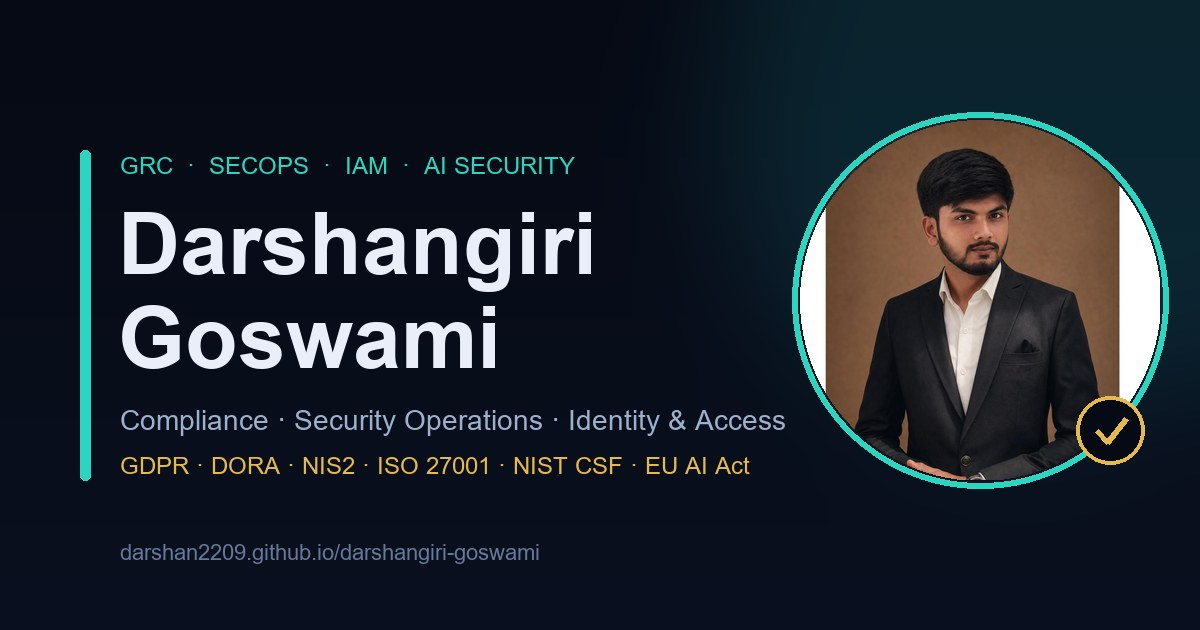
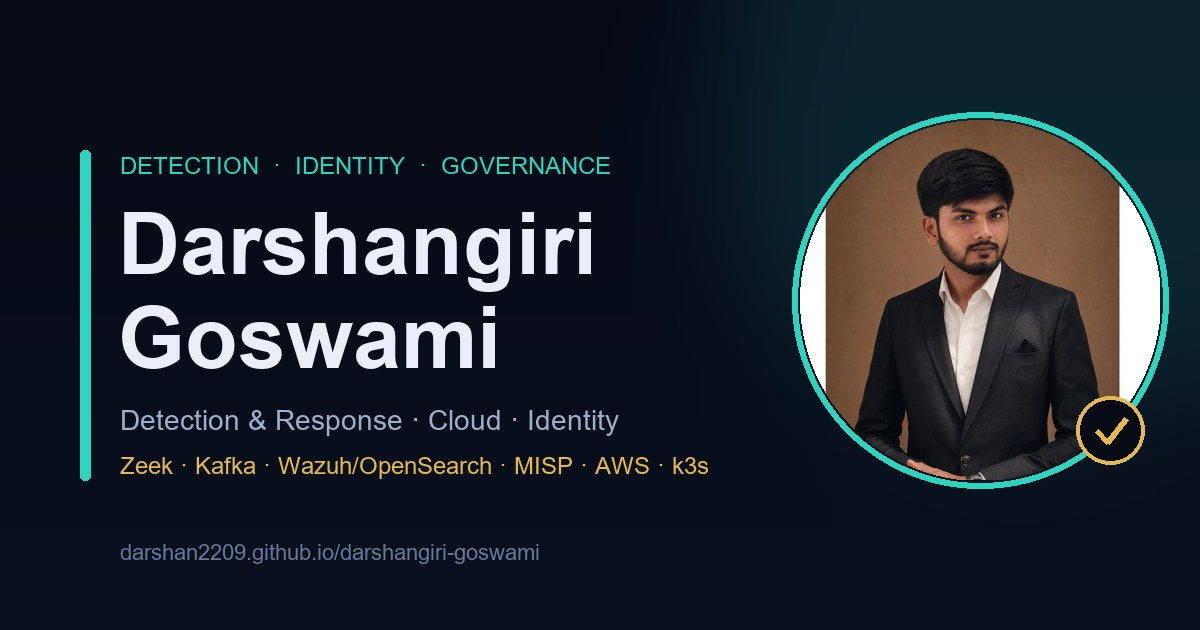
Sync CV, terminal, manifest, OG card and README to the new positioning
Follow-up to 74218df, which repositioned the page but left everything
around it still describing the old GRC-first track.

- Darshangiri-Goswami-CV.pdf rebuilt from the updated master resume. The
  old file opened with "seeking a first full-time role in GRC, IAM or
  compliance", listed SC-300 as in progress and had no SC-200, no labs and
  no speaking, so the hero's own Download CV button handed a recruiter a
  document contradicting the page three ways
- Terminal: about, skills and certs rewritten; new labs and research
  commands, projects aliases to labs, help lists the research section
- site.webmanifest name and description no longer say Compliance ·
  Monitoring · Responsible AI
- OG card regenerated: eyebrow, role line and a stack line naming Zeek,
  Kafka, Wazuh/OpenSearch, MISP, AWS and k3s. Both text lines checked
  against the portrait circle so neither runs under the photo
- generate_assets.py falls back to the committed portraits when the
  Downloads source photos are absent, which is what silently dropped the
  portrait from the first regenerated card
- README: corrected the CDN claim (Three.js is vendored), the model name
  (haiku-4-5, not opus-4-8) and the backend URL; documented the file tree,
  the CV-from-master build path and the cron-job.org keep-alive

Changed region(s): [[0.0925, 0.6333, 0.6475, 0.6937], [0.0925, 0.2413, 0.5242, 0.3016], [0.0925, 0.7238, 0.6475, 0.754]]

diff --git a/index.html b/index.html
@@ -2759,15 +2759,17 @@ function speakReply(text){
   const CMDS = {
     help(){ print(
       '<span class="t-ok">Available commands</span>\n' +
-      '  about · skills · certs · projects · experience · contact · linkedin · github · cv\n' +
-      '  open &lt;section&gt;   jump to a section (about/skills/projects/writing/ops/fit/contact)\n' +
+      '  about · skills · certs · labs · research · experience · contact · linkedin · github · cv\n' +
+      '  open &lt;section&gt;   jump to a section (about/skills/research/projects/lab/writing/ops/fit/contact)\n' +
       '  nmap · sudo hire darshan · hack     for the curious\n' +
       '  ls · cat · decode &lt;base64&gt; · submit &lt;flag&gt;     <span class="t-dim">// recon tools</span>\n' +
       '  clear · exit'); },
-    about(){ print('MSc Business Management & Cybersecurity (GISMA, Berlin). GRC · SecOps · IAM · AI security.\nTrained 4500+ people (95% certified). Builds AI-driven monitoring and access-governance workflows.'); },
-    skills(){ print('<span class="t-ok">[GRC]</span> ISO 27001/ISMS · NIST CSF · GDPR · DORA · NIS2 · EU AI Act\n<span class="t-ok">[SecOps]</span> SOC-style triage · Wazuh SIEM · FIM · case documentation\n<span class="t-ok">[IAM]</span> Entra ID · RBAC · least privilege · JML · conditional access\n<span class="t-ok">[Auto]</span> Python · PowerShell · AI alert triage · anomaly detection'); },
-    certs(){ print('SC-900 ✔ · ISO 27001 Associate ✔ · Google Cybersecurity ✔ · Cisco CyberOps ✔ · CTIGA ✔\nSC-300 ⏳ · Security+ SY0-701 ⏳   <span class="t-dim">(verify: credly.com/users/darshan-goswami.e4c6c92c)</span>'); },
-    projects(){ print('1. AI-Assisted Monitoring, Python anomaly detection + AI triage/risk-scoring via API\n2. Wazuh SIEM Homelab, Ubuntu manager + Windows agent, FIM caught 100+ unauthorised changes'); },
+    about(){ print('B.Tech Information Technology · MSc Business Management & Cyber Security (GISMA, Sep 2026).\nDetection & response · Linux/cloud security · IAM · GRC. Builds the detection, then proves it is accountable.\nTrained 4500+ people (95% certified). Speaking at KuppingerCole NHI Impact Day, Munich, 14 Oct 2026.'); },
+    skills(){ print('<span class="t-ok">[Detect]</span> Zeek · Apache Kafka · Wazuh/OpenSearch · MISP · rule authoring & tuning · FIM · triage\n<span class="t-ok">[Linux]</span> Ubuntu/Debian admin · CIS hardening · auditd · Bash · systemd · VLANs/DMZ/SPAN\n<span class="t-ok">[Cloud]</span> AWS IAM/CloudTrail/GuardDuty/S3 · GCP · Oracle · Entra ID · k3s RBAC/NetPol/PSS\n<span class="t-ok">[IAM]</span> access reviews · RBAC · least privilege · JML · NHI governance · RFC 8693\n<span class="t-ok">[GRC]</span> ISO 27001/ISMS · NIST CSF · GDPR · DORA · NIS2 · MITRE ATT&CK · EU AI Act\n<span class="t-ok">[Auto]</span> Python · Bash · PowerShell · AI alert triage · Bandit · pip-audit'); },
+    certs(){ print('SC-200 ✔ · Cisco CyberOps ✔ · SC-300 ✔ · Google Cybersecurity ✔ · CTIGA ✔\nTryHackMe Sec1 ✔ · ISO 27001 Associate ✔ · SC-900 ✔ · Security+ SY0-701 ⏳\n<span class="t-dim">(verify: credly.com/users/darshan-goswami.e4c6c92c)</span>'); },
+    labs(){ print('1. Detection Engineering, Zeek → Kafka → Wazuh/OpenSearch + MISP, 12 rules authored & tuned\n2. Linux Hardening, CIS baseline via idempotent Bash script, auditd piped into the detection stack\n3. Multi-Cloud Posture, AWS misconfigured on purpose then remediated; repeated on GCP + Oracle\n4. Kubernetes, k3s with RBAC, network policies and pod security standards, audit-log reconstruction\n5. Network Segmentation & Secure Tooling, VLANs/DMZ/SPAN + Bandit and pip-audit on the tooling\n6. AI-Assisted Monitoring, Python anomaly detection + AI triage/risk-scoring via API, human-in-the-loop'); },
+    projects(){ CMDS.labs(); },
+    research(){ print('<span class="t-ok">KuppingerCole NHI Impact Day</span> · Munich · 14 Oct 2026 · selected speaker\nGap analysis of non-human identity governance across SOC 2, NIST CSF 2.0, ISO 27001:2022,\nNIST SP 800-53 R5 and DORA. All five govern machine credentials. None covers one machine\ndelegating to another, which is exactly what an AI agent does.\nProof of concept: RFC 8693 bounded delegation, which breaks the attack chain.\n<span class="t-dim">MSc thesis behind it: 98 pages, 15 figures, UNC6395 mapped to MITRE ATT&CK.</span>'); },
     experience(){ print('2025      Cybersecurity Trainer @ NIIT Foundation (4500+ trained, 95% certified\n2023-24   Cybersecurity Research Analyst @ The CyberDiplomat) 50+ platforms monitored\n2023      Cybersecurity Research Intern @ The CyberDiplomat, crypto threat research, +30% TI quality'); },
     contact(){ print('email: <span class="t-ok">darshangoswami22922@gmail.com</span>\nphone: +49 155 1083 7720\nlocation: Berlin (open to relocation) · full-time from Oct 2026'); },
     linkedin(){ window.open('https://linkedin.com/in/darshangiri-goswami-033283213','_blank'); print('opening LinkedIn…','t-dim'); },

diff --git a/generate_assets.py b/generate_assets.py
@@ -10,8 +10,17 @@ from PIL import Image, ImageDraw, ImageFont, ImageFilter, ImageChops, ImageOps
 
 HERE = pathlib.Path(__file__).parent
 ASSETS = HERE / "assets"; ASSETS.mkdir(exist_ok=True)
+# Original imports from Downloads. Those files are gone from this machine, so each
+# falls back to the committed asset it originally produced — enough to regenerate
+# the OG card (which only needs a circle crop) without the source photos on hand.
+# Re-point these at the originals before regenerating the hero/about portraits,
+# since a fallback rebuild would resample an already-compressed JPEG.
 SRC = pathlib.Path(r"C:\Users\Lenovo\Downloads\Untitled design.jpg")  # hero: black-suit studio portrait
 ABOUT_SRC = pathlib.Path(r"C:\Users\Lenovo\Downloads\Headshot.png")   # about: navy-suit headshot
+if not SRC.exists():
+    SRC = HERE / "assets" / "portrait.jpg"
+if not ABOUT_SRC.exists():
+    ABOUT_SRC = HERE / "assets" / "about.jpg"
 
 TEAL = (45, 212, 191); GOLD = (230, 185, 79); BG = (6, 10, 20); TEXT = (233, 238, 248); MUTED = (158, 176, 203)
 
@@ -105,14 +114,17 @@ def make_og():
     d.rounded_rectangle((80, 150, 90, 480), radius=5, fill=TEAL)
 
     # eyebrow
-    d.text((120, 152), "GRC  ·  SECOPS  ·  IAM  ·  AI SECURITY", font=font(False, 24), fill=TEAL)
+    d.text((120, 152), "DETECTION  ·  IDENTITY  ·  GOVERNANCE", font=font(False, 24), fill=TEAL)
     # name (two lines)
     d.text((118, 196), "Darshangiri", font=font(True, 86), fill=TEXT)
     d.text((118, 290), "Goswami", font=font(True, 86), fill=TEXT)
     # role
-    d.text((120, 404), "Compliance · Security Operations · Identity & Access", font=font(False, 28), fill=MUTED)
-    # frameworks
-    d.text((120, 452), "GDPR · DORA · NIS2 · ISO 27001 · NIST CSF · EU AI Act", font=font(False, 24), fill=GOLD)
+    # Both lines must clear the portrait circle, whose left edge sits at x=800.
+    # At 28pt roughly 47 characters fit, at 24pt roughly 52. Longer strings run
+    # under the photo instead of wrapping, so check the render after editing.
+    d.text((120, 404), "Detection & Response · Cloud · Identity", font=font(False, 28), fill=MUTED)
+    # stack — named tools read as evidence where framework acronyms read as reading
+    d.text((120, 452), "Zeek · Kafka · Wazuh/OpenSearch · MISP · AWS · k3s", font=font(False, 24), fill=GOLD)
     # url
     d.text((120, 540), "darshan2209.github.io/darshangiri-goswami", font=font(False, 22), fill=(103, 120, 154))
 

diff --git a/README.md b/README.md
@@ -1,31 +1,34 @@
 # Darshangiri Goswami — 3D Cybersecurity Portfolio
 
-An ultra-realistic 3D portfolio built with **Three.js** (WebGL + bloom) and an
-**"Ask my AI twin"** chat assistant that can run on the **Claude API**. Theme:
-professional *compliance & trust* — deep navy, teal + gold, an animated 3D data-shield,
-an orbiting monitoring-network graph, and a particle field.
+A single-file 3D portfolio built with **Three.js** (WebGL + bloom) and an
+**"Ask my AI twin"** chat assistant running on the **Claude API**. Deep navy, teal +
+gold, an animated 3D data-shield, an orbiting monitoring-network graph and a particle
+field. The content leads with **detection engineering** — the labs, the research, the
+stack — and carries governance, identity and compliance as the second half.
 
 ## Files
 
 | File | What it is |
 |------|------------|
-| `index.html` | **The website** — edit this directly. References external assets (no base64). |
-| `assets/portrait.jpg` · `assets/portrait.webp` | Shared portrait used by hero + about (one download, served twice). |
+| `index.html` | **The website** — everything lives here: markup, CSS, JS, the German translation map, the terminal easter egg and the access-review simulator. Edit directly. |
+| `assets/portrait.*` · `about.*` · `portrait-cyber.webp` | Hero portrait, About headshot, hologram twin. |
 | `assets/og-image.jpg` | 1200×630 social-share card. |
-| `assets/favicon.svg` | SVG favicon (the shield mark). |
-| `site.webmanifest` | PWA manifest. |
-| `.well-known/security.txt` | Security contact (RFC 9116). |
-| `generate_assets.py` | Regenerates `portrait.*` and `og-image.jpg` from the source photo. |
-| `ai_twin_server.py` | Claude backend that powers live chat (keeps the API key server-side). |
-| `Procfile` · `render.yaml` | Deploy config for hosting the backend (Render/Railway/Heroku-style). |
-| `requirements.txt` | Python deps for the backend / asset generator. |
-| `Darshangiri-Goswami-CV.pdf` | Linked by the "Download CV" buttons. |
+| `assets/writing.json` · `ops.json` | Written by the LinkedIn agent; feed the Writing cards and the Live Ops room. |
+| `artifacts/` | Three illustrative GRC work samples (risk register, access-review procedure, ISO 27001 SoA excerpt). Fictional company, robots-noindexed. |
+| `fonts/` · `vendor/three/` | Self-hosted fonts and a vendored Three.js. No third-party requests at page load except GoatCounter. |
+| `datenschutz.html` · `kolophon.html` | DSGVO Art. 13 privacy notice and the colophon (sub-processor register, AI-system inventory, open items). |
+| `404.html` | RBAC-flavoured "access denied" page with a redirect. |
+| `site.webmanifest` · `sitemap.xml` · `robots.txt` · `.well-known/security.txt` | PWA manifest, SEO, security contact (RFC 9116). |
+| `generate_assets.py` | Regenerates `portrait.*`, `about.*` and `og-image.jpg`. |
+| `ai_twin_server.py` | Claude backend for the chat and the JD fit-check (keeps the API key server-side). |
+| `Procfile` · `render.yaml` · `requirements.txt` | Backend deploy config and Python deps. |
+| `Darshangiri-Goswami-CV.pdf` | Linked by the "Download CV" buttons. Built from `resume-agent/base/resume.yaml` — regenerate there, then copy it here, so the CV and the site never drift apart. |
 
 ## View the site
 
-Open `index.html` in a browser (Three.js loads from a CDN, so the first load needs
-internet). The AI twin works in **offline mode** out of the box — answers come from a
-built-in summary of the CV, with no network calls and no API key.
+Open `index.html` in a browser. Fonts and Three.js are served from this repo, so it
+renders fully offline. The AI twin also has an **offline mode** — if the backend is
+unreachable, answers come from a built-in CV summary with no network calls and no key.
 
 ## Regenerate the images
 
@@ -33,7 +36,21 @@ built-in summary of the CV, with no network calls and no API key.
 pip install -r requirements.txt
 python generate_assets.py
 ```
-Edit the source photo paths at the top of `generate_assets.py` to swap the portrait.
+
+The source photos are read from `Downloads/`; when those are missing,
+`generate_assets.py` falls back to the committed `assets/portrait.jpg` and
+`assets/about.jpg`. That fallback is fine for rebuilding the OG card, which only needs
+a circle crop, but re-point `SRC` / `ABOUT_SRC` at the originals before regenerating
+the hero and about portraits — otherwise it resamples an already-compressed JPEG.
+
+To rebuild only the social card:
+
+```powershell
+python -c "import generate_assets as g; g.make_og()"
+```
+
+Both text lines on that card have to clear the portrait circle at x=800; longer strings
+run under the photo instead of wrapping, so look at the result after editing.
 
 ## Enable the live Claude AI twin
 
@@ -50,24 +67,30 @@ python ai_twin_server.py            # http://localhost:8787
    `render.yaml` is detected automatically (gunicorn start command, health check).
 3. Add an environment variable **`ANTHROPIC_API_KEY`** = your key from
    [console.anthropic.com](https://console.anthropic.com). Never commit the key.
-4. Deploy → copy the service URL, e.g. `https://darshan-ai-twin.onrender.com`.
+4. Deploy → copy the service URL. This site's is `https://darshangiri-goswami.onrender.com`.
 5. In `index.html`, set the one config constant to that URL **+ `/chat`**:
    ```js
-   const AI_ENDPOINT = 'https://darshan-ai-twin.onrender.com/chat';
+   const AI_ENDPOINT = 'https://darshangiri-goswami.onrender.com/chat';
    ```
-   Then rebuild assets aren't needed — just commit & push `index.html`.
+   No asset rebuild needed — just commit and push `index.html`.
 
 Leave `AI_ENDPOINT = ''` for offline mode. **Never put an API key in `index.html`.**
 When set, the chat header shows **"Online · Claude"** and answers stream live from
-`claude-opus-4-8` (override with the `AI_TWIN_MODEL` env var), grounded in the CV.
+`claude-haiku-4-5` (override with the `AI_TWIN_MODEL` env var), grounded in the CV
+block at the top of `ai_twin_server.py`. That block is the twin's whole world: it also
+carries a **KNOWN GAPS** section, and both the chat and the fit-check are instructed to
+state those plainly rather than soften them. Keep it in sync with the master résumé.
 
 ### Built-in safeguards (public endpoint)
 - CORS locked to the portfolio origin · per-IP rate limit (20 req/min)
 - Message-length cap (2000 chars) and history cap (12 turns) to bound token spend
 - The API key lives only in the host's environment, never in the browser
 
-> Render's free tier sleeps after ~15 min idle, so the first message after a pause
-> takes a few seconds to wake the service. Upgrade the plan to keep it always-on.
+> Render's free tier sleeps after ~15 min idle, which is what makes the widget show
+> "Offline · from CV". The repo's GitHub Actions `keep-alive.yml` is **not** reliable —
+> GitHub throttles scheduled jobs well below the needed interval. An external
+> cron-job.org job pings `/health` every 5 minutes instead. If the twin reads Offline,
+> check that job first.
 
 ## Publish
 
